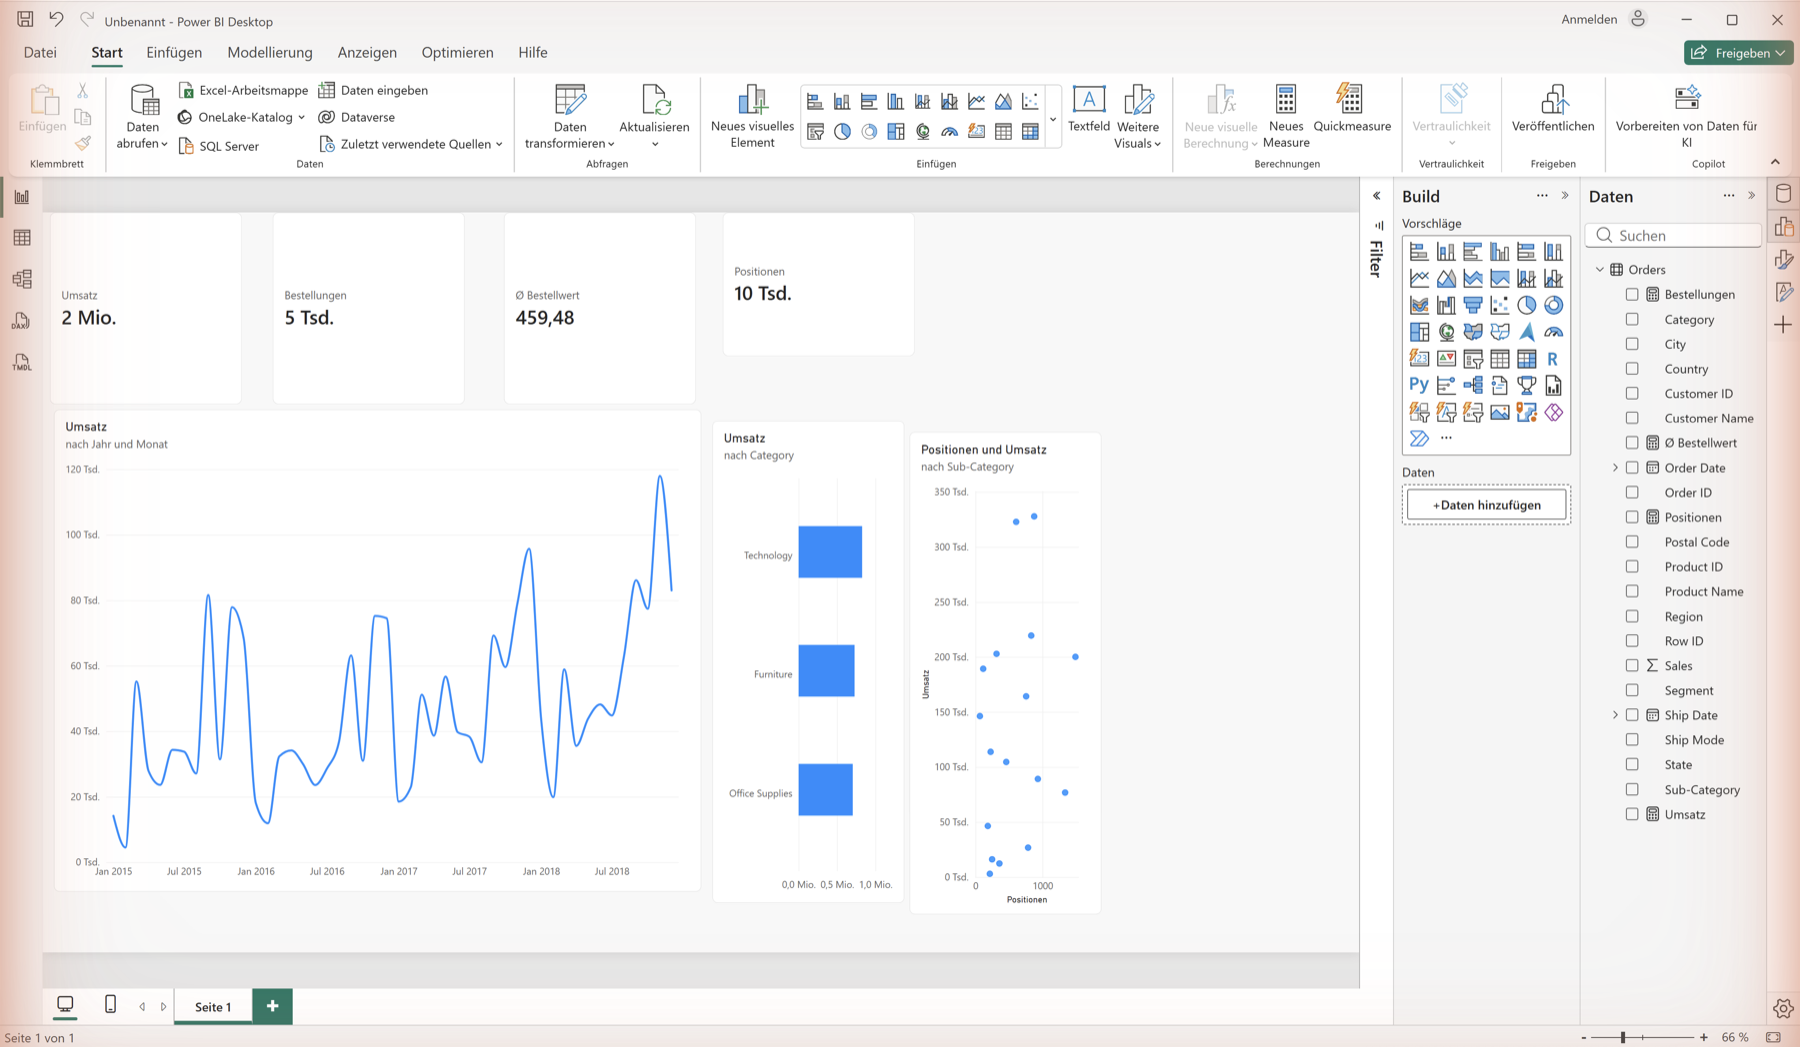
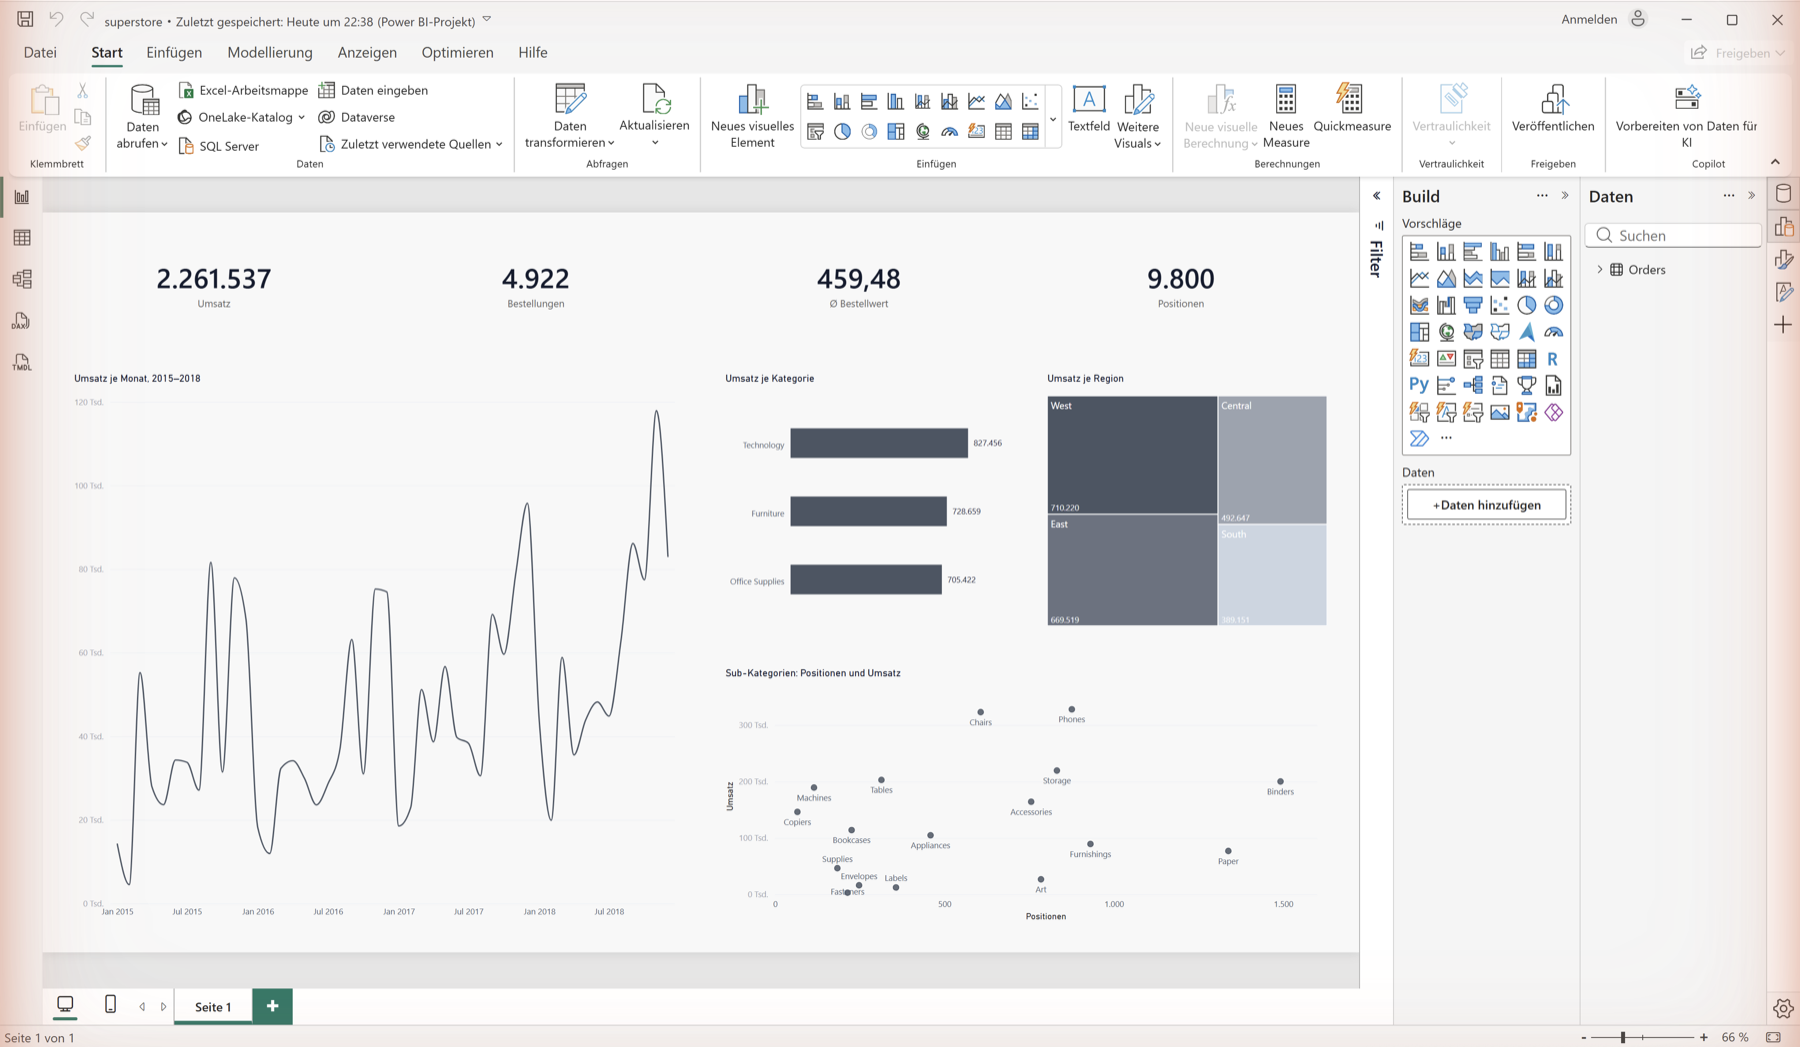
Dashboards in Power BI und Tableau reduziert neu aufnehmen
Eine gedeckte Farbe, Datenbeschriftungen statt Achsenraster, absteigend
sortierte Balken, Kennzahlen als formatierte Zahl, Titel als Aussage,
keine Legenden und Untertitel. Die Power-BI-Designdatei bint-klar.json
liegt im Starterpaket zu Lab 05; Schritt 5 beschreibt den Reduktionsweg.

diff --git a/lab-05-fallstudie.html b/lab-05-fallstudie.html
@@ -72,7 +72,7 @@
     </div>
     <div class="download-box">
       <h3><span lang="de">Starterpaket herunterladen</span><span lang="en">Download the starter package</span></h3>
-      <p><span lang="de">Enthält explore.py, app.py, measures.dax mit der Kalendertabelle, requirements.txt und eine README mit allen Sollwerten. train.csv daneben legen und loslegen – der lange Dash-Code muss nicht aus der Seite kopiert werden.</span><span lang="en">Contains explore.py, app.py, measures.dax including the calendar table, requirements.txt and a README with all expected values. Put train.csv next to it and go – no need to copy the long Dash code out of the page.</span></p>
+      <p><span lang="de">Enthält explore.py, app.py, measures.dax mit der Kalendertabelle, bint-klar.json als Designdatei für Power BI, requirements.txt und eine README mit allen Sollwerten. train.csv daneben legen und loslegen – der lange Dash-Code muss nicht aus der Seite kopiert werden.</span><span lang="en">Contains explore.py, app.py, measures.dax including the calendar table, bint-klar.json as a theme file for Power BI, requirements.txt and a README with all expected values. Put train.csv next to it and go – no need to copy the long Dash code out of the page.</span></p>
       <div class="download-reihe">
         <a class="btn-download" href="starter/lab-05-fallstudie.zip" download>lab-05-fallstudie.zip</a>
       </div>
@@ -319,12 +319,12 @@ DIVIDE([Revenue] - [Revenue_PY], [Revenue_PY], 0) * 100
       <span><span lang="de">4 KPI-Cards oben (Umsatz, Bestellungen, Ø Bestellwert, Positionen), Umsatz-Trend-Linie (monatlich), Kategorie-Balkendiagramm, Region-Karte (Kartenvisuals müssen unter Datei → Optionen → Sicherheit erlaubt sein, sonst ein Treemap je Region), Streudiagramm Umsatz vs. Bestellpositionen je Sub-Kategorie.</span><span lang="en">4 KPI cards at the top (Revenue, Orders, Avg. Order Value, Line Items), Revenue trend line (monthly), Category bar chart, region map (map visuals must be allowed under File → Options → Security, otherwise a treemap per region), scatter of revenue vs. line items per sub-category.</span></span>
 <figure class="abbildung">
       <img src="assets/img/powerbi-dashboard.png" alt="Power-BI-Bericht mit vier Kennzahlkarten, einer Linie Umsatz nach Jahr und Monat, einem Balkendiagramm Umsatz nach Category und einem Streudiagramm Positionen und Umsatz nach Sub-Category" data-alt-en="Power BI report with four KPI cards, a line chart of revenue by year and month, a bar chart of revenue by category and a scatter plot of line items and revenue by sub-category" width="1800" height="1047" loading="lazy" />
-      <figcaption><span lang="de">Das fertige Power-BI-Dashboard: vier Kennzahlkarten (2,26 Mio. Umsatz, 4.922 Bestellungen, 459,48 Ø Bestellwert, 9.800 Positionen), Umsatzverlauf je Monat, Balken je Kategorie und Streudiagramm je Sub-Kategorie.</span><span lang="en">The finished Power BI dashboard: four KPI cards (2.26M revenue, 4,922 orders, 459.48 average order value, 9,800 line items), monthly revenue trend, bars per category and scatter plot per sub-category.</span></figcaption>
+      <figcaption><span lang="de">Das fertige Power-BI-Dashboard in reduzierter Form: vier Kennzahlen als Zahl ohne Kartenrahmen (2.261.537 Umsatz, 4.922 Bestellungen, 459,48 Ø Bestellwert, 9.800 Positionen), Umsatz je Monat als dünne Linie, sortierte Balken je Kategorie mit Werten, Treemap je Region und Streudiagramm der Sub-Kategorien – eine Farbe, keine Legenden, kein Gitternetz.</span><span lang="en">The finished Power BI dashboard in reduced form: four KPIs as plain numbers without card frames (2,261,537 revenue, 4,922 orders, 459.48 average order value, 9,800 line items), revenue per month as a thin line, sorted bars per category with values, treemap per region and scatter plot of the sub-categories – one colour, no legends, no gridlines.</span></figcaption>
     </figure>
     </li>
     <li>
       <strong><span lang="de">Slicer &amp; Formatierung</span><span lang="en">Slicers &amp; Formatting</span></strong>
-      <span><span lang="de">Slicer für: Jahr, Region, Kategorie. Einheitliche Farben, Datenbeschriftungen aktivieren.</span><span lang="en">Slicers for: Year, Region, Category. Consistent colours, enable data labels.</span></span>
+      <span><span lang="de">Slicer für: Jahr, Region, Kategorie. Dann reduzieren: eine gedeckte Farbe für alle Balken statt Buntheit, Datenbeschriftungen statt Achsenraster, Balken absteigend sortiert, Titel als Aussage („Umsatz je Monat, 2015–2018“), Legenden und Untertitel aus. Die Designdatei bint-klar.json aus dem Starterpaket setzt Farben, Achsen und Beschriftungen für alle Visuals auf einmal: Ansicht → Designs → Nach Designs suchen.</span><span lang="en">Slicers for: year, region, category. Then reduce: one muted colour for all bars instead of a rainbow, data labels instead of gridlines, bars sorted descending, titles that state a message (“Revenue per month, 2015–2018”), legends and subtitles off. The theme file bint-klar.json from the starter pack sets colours, axes and labels for all visuals at once: View → Themes → Browse for themes.</span></span>
     </li>
   </ol>
   </section>
@@ -422,7 +422,7 @@ SUM([Sales]) / COUNTD([Order ID])</pre>
       <span><span lang="de">Dashboard → Neues Dashboard, Größe auf Automatisch. Die Arbeitsblätter aus der linken Liste auf die Fläche ziehen: Kennzahlen oben, Detailansichten darunter. Am Rand eines Arbeitsblatts öffnet das Dropdown den Eintrag Als Filter verwenden; eine Auswahl dort filtert die übrigen Ansichten. Der Wirkungsbereich lässt sich über Filter → Anwenden auf → Ausgewählte Arbeitsblätter einschränken.</span><span lang="en">Dashboard → New Dashboard, size set to Automatic. Drag the worksheets from the list on the left onto the canvas: metrics at the top, detail views below. The dropdown at the edge of a worksheet offers Use as Filter; a selection there filters the remaining views. Filter → Apply to Worksheets → Selected Worksheets narrows the scope.</span></span>
 <figure class="abbildung">
       <img src="assets/img/tableau-dashboard.png" alt="Tableau-Dashboard „Superstore Dashboard“ mit vier Arbeitsblättern: Umsatzverlauf als Linie, Umsatz je Kategorie, Umsatz je Region und Umsatz je Unterkategorie als Balken" data-alt-en="Tableau dashboard “Superstore Dashboard” with four worksheets: revenue trend as a line, revenue per category, per region and per sub-category as bars" width="1800" height="1163" loading="lazy" />
-      <figcaption><span lang="de">Tableau-Dashboard mit Größe Automatisch: Umsatzverlauf oben, darunter Umsatz je Kategorie, je Region und je Unterkategorie; „Als Filter verwenden“ ist auf dem Kategorie-Blatt aktiv.</span><span lang="en">Tableau dashboard with automatic size: revenue trend on top, below revenue per category, per region and per sub-category; “Use as filter” is active on the category sheet.</span></figcaption>
+      <figcaption><span lang="de">Tableau-Dashboard mit Größe Automatisch in reduzierter Form: Umsatzverlauf mit beschrifteten Jahreswerten oben, darunter Umsatz je Kategorie, je Region und je Unterkategorie als absteigend sortierte Balken mit Werten statt Achsen; „Als Filter verwenden“ ist auf dem Kategorie-Blatt aktiv.</span><span lang="en">Tableau dashboard with automatic size in reduced form: revenue trend with labelled yearly values on top, below revenue per category, per region and per sub-category as descending bars with values instead of axes; “Use as filter” is active on the category sheet.</span></figcaption>
     </figure>
     </li>
     <li>

diff --git a/tools/build_starters.py b/tools/build_starters.py
@@ -7,7 +7,7 @@ Starterpaket. Handgepflegte Kopien waeren nach dem zweiten Semester
 auseinandergelaufen.
 
 Handgeschrieben und damit NICHT ueberschrieben werden: die READMEs,
-verify.sql, .env.example und requirements.txt aus Lab 05.
+verify.sql, .env.example, bint-klar.json und requirements.txt aus Lab 05.
 
 Aufruf:  python3 tools/build_starters.py
 """
@@ -46,7 +46,7 @@ PACKAGES = ["lab-04-dash", "lab-05-fallstudie", "lab-06-stack"]
 # Only ship the exercise files, never a local .env, dataset or Python cache.
 PACKAGE_FILES = {
     "lab-04-dash": ["README.md", "app.py", "charts.py", "requirements.txt", "Dockerfile"],
-    "lab-05-fallstudie": ["README.md", "app.py", "explore.py", "measures.dax", "requirements.txt"],
+    "lab-05-fallstudie": ["README.md", "app.py", "explore.py", "measures.dax", "requirements.txt", "bint-klar.json"],
     "lab-06-stack": ["README.md", "docker-compose.yml", ".env.example",
                      "init/01_schema.sql", "init/02_import.sql", "verify.sql"],
 }

diff --git a/starter/lab-05-fallstudie/README.md b/starter/lab-05-fallstudie/README.md
@@ -31,3 +31,7 @@ es würde Umsatz vernichten, der tatsächlich stattgefunden hat.
 `measures.dax` enthält die DAX-Measures inklusive Kalendertabelle für
 Power BI. Sollwerte: Umsatz 2.261.536,78 · Bestellungen 4.922 ·
 Ø Bestellwert 459,48 · YoY-Wachstum 2018 gegenüber 2017 rund 20,3 %.
+
+## bint-klar.json
+
+Designdatei für Power BI Desktop: Ansicht → Designs → Nach Designs suchen → diese Datei wählen. Sie setzt eine gedeckte Farbe für alle Visuals, schaltet Gitternetz, Achsentitel und Legenden aus und aktiviert Datenbeschriftungen. Das Dashboard aus Schritt 3 lässt sich damit in einem Schritt reduzieren.

diff --git a/starter/README.md b/starter/README.md
@@ -8,7 +8,7 @@ automatisch synchron mit dem, was im Lab steht.
 | Ordner | Inhalt | Lab |
 |---|---|---|
 | `lab-04-dash/` | `charts.py`, `app.py`, `requirements.txt`, `Dockerfile` | Lab 04 |
-| `lab-05-fallstudie/` | `explore.py`, `app.py`, `measures.dax`, `requirements.txt` | Lab 05 |
+| `lab-05-fallstudie/` | `explore.py`, `app.py`, `measures.dax`, `bint-klar.json`, `requirements.txt` | Lab 05 |
 | `lab-06-stack/` | `docker-compose.yml`, `init/`, `verify.sql`, `.env.example` | Lab 06 |
 
 Der Datensatz `train.csv` liegt bewusst nicht in den Paketen, sondern einmal
